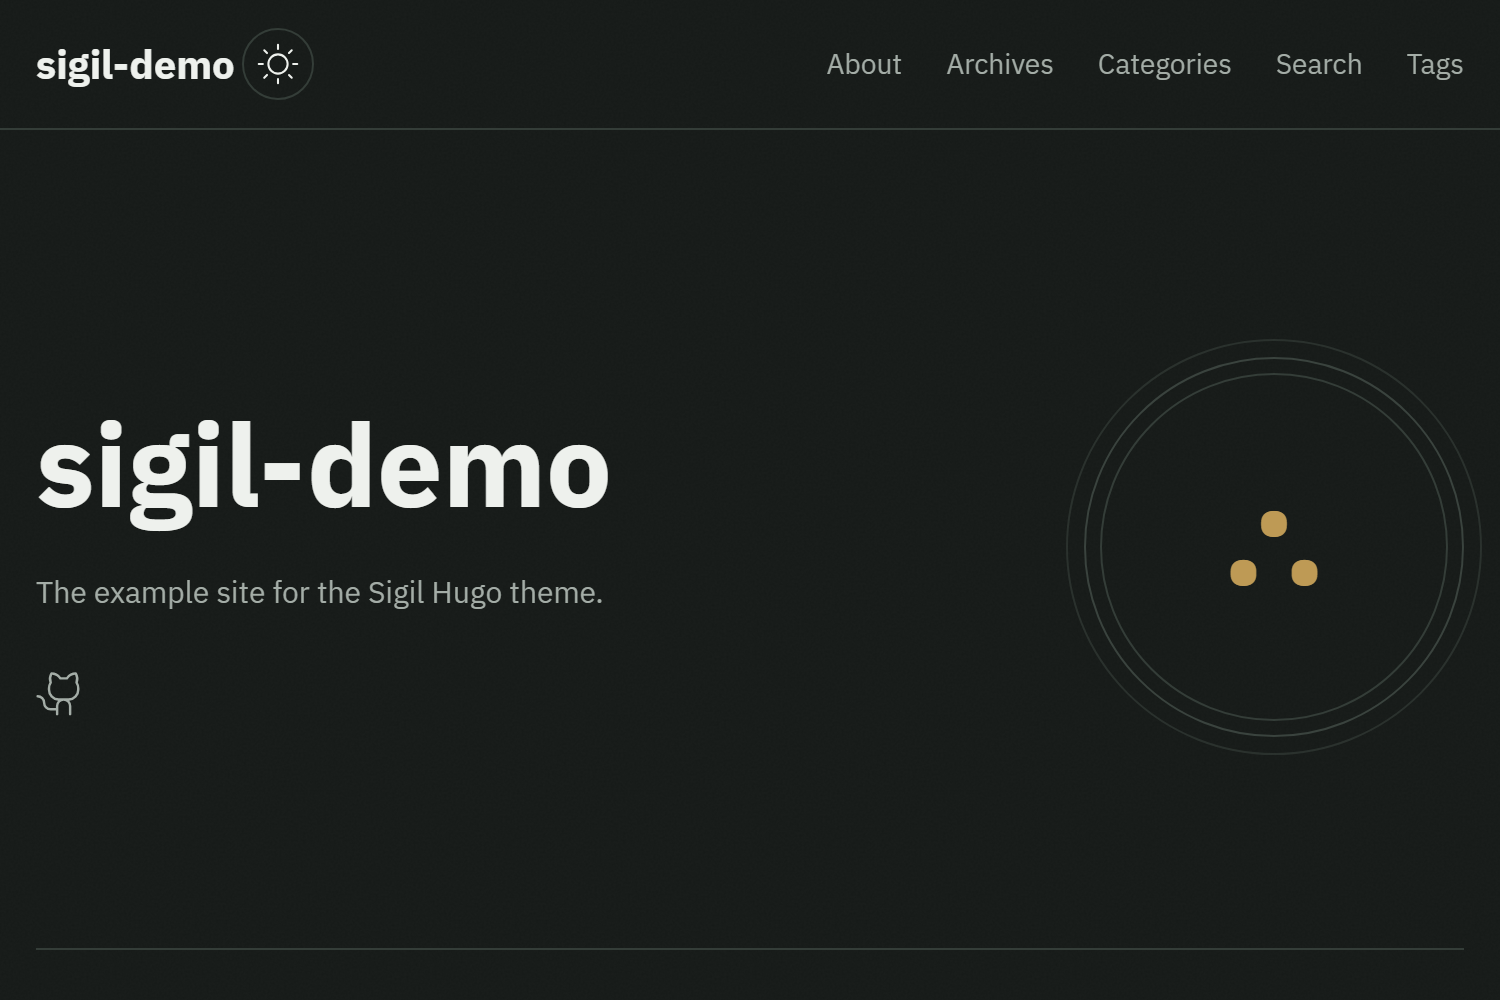
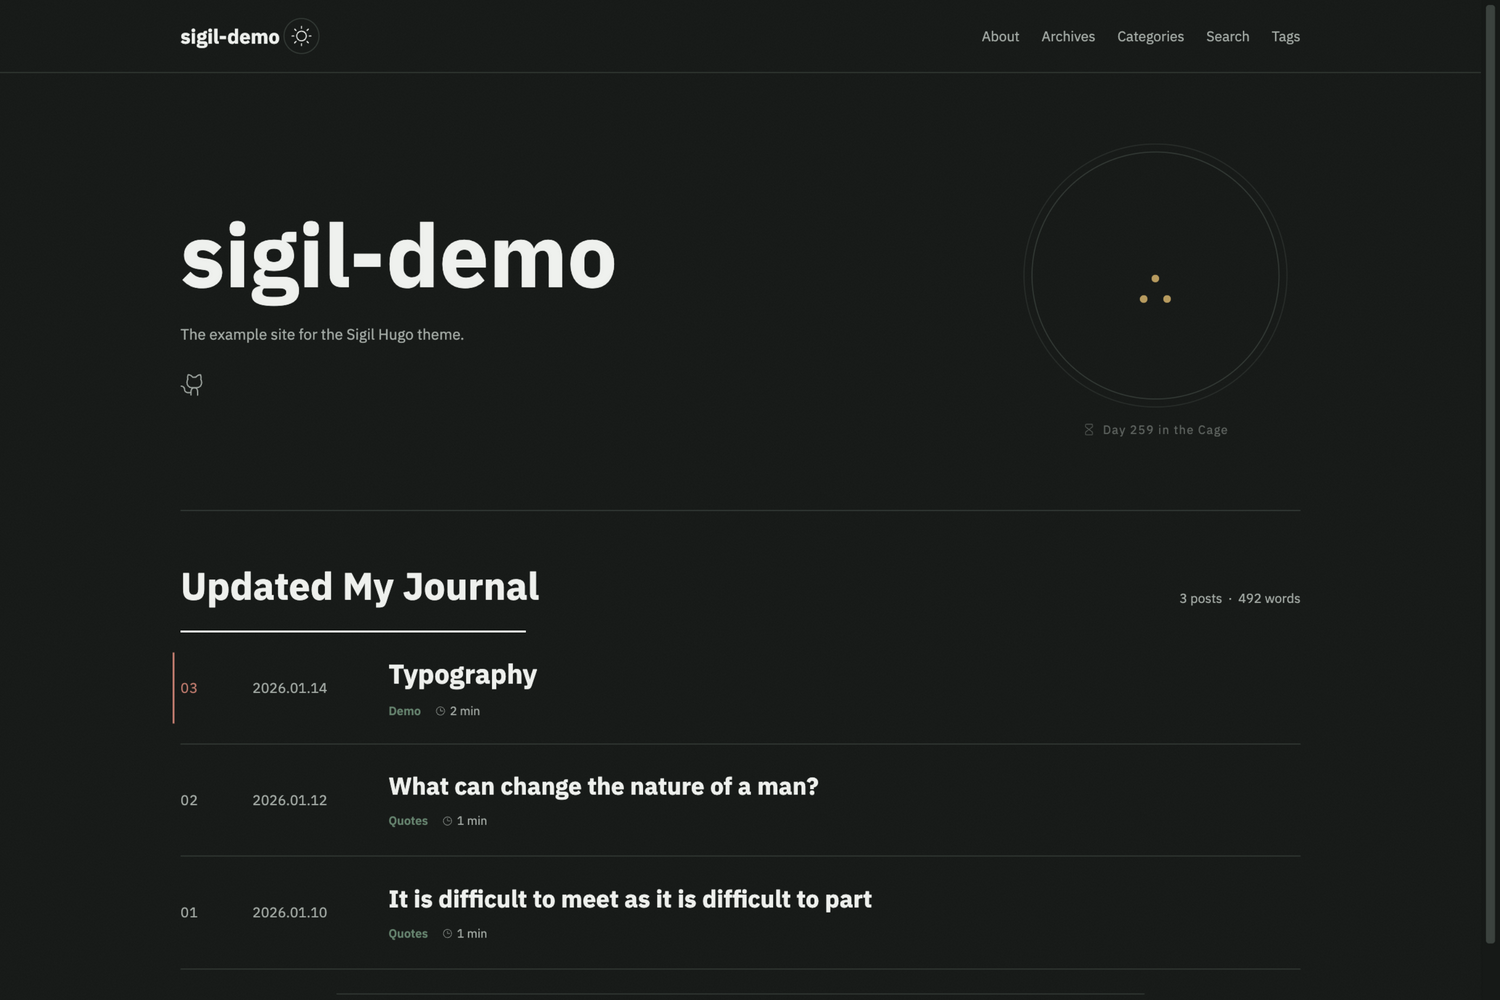
feature: 主题产品化三件套+画廊刷新
- i18n 收口:栏头/计数后缀/社交 aria/阅读前缀/分页 aria 进 i18n(en/ja/zh-CN/zh/zh-tw 真译文,缺失语言回落模板内英文 default,第三语言不再看到中文);分页方向词改用既有 prev_page/next_page(站点 i18n 覆盖生效);状态条 aria-label 改 Current status
- go.mod:Hugo Modules 用户可直接 hugo mod get
- 打印样式 print.css:藏导航/进度/分页,边注内联回段落(:has 缺失时安全回退脚注),正文黑字白底
- gallery: 重出 1500×1000 封面与 900×600 缩略图(沙漏 Day N、元信息小图标、编号列表)

diff --git a/layouts/index.html b/layouts/index.html
@@ -22,15 +22,8 @@
 {{- if and site.Params.sgDaysInCage (gt (len $pages) 0) }}
   {{- $cageDays = div (sub now.Unix (index ($pages.ByDate) 0).Date.Unix) 86400 }}
 {{- end }}
-{{- $socialLabel := "社交链接" -}}
-{{- $readPrefix := "阅读：" -}}
-{{- if eq site.Language.Lang "en" -}}
-  {{- $socialLabel = "Social links" -}}
-  {{- $readPrefix = "Read: " -}}
-{{- else if eq site.Language.Lang "ja" -}}
-  {{- $socialLabel = "ソーシャルリンク" -}}
-  {{- $readPrefix = "読む: " -}}
-{{- end -}}
+{{- $socialLabel := i18n "socialLinks" | default "Social links" -}}
+{{- $readPrefix := i18n "readPrefix" | default "Read: " -}}
 
 <div class="sg-home">
   {{- if eq $paginator.PageNumber 1 }}
@@ -60,12 +53,12 @@
         {{- end }}
       </div>
       {{- if or site.Params.sgReading site.Params.sgPlaying $sgMotto site.Params.sgDaysInCage }}
-      <figcaption class="sg-now" data-rotate="true" aria-label="Current reading and playing" aria-live="polite">
+      <figcaption class="sg-now" data-rotate="true" aria-label="Current status" aria-live="polite">
         {{- with site.Params.sgReading }}
-        <span class="sg-now__item sg-now__item--reading">{{ partial "sg-icon.html" (dict "name" "book-open" "size" 14) }}<span>Reading: {{ . }}</span></span>
+        <span class="sg-now__item sg-now__item--reading">{{ partial "sg-icon.html" (dict "name" "book-open" "size" 14) }}<span>{{ i18n "sgNowReading" | default "Reading:" }} {{ . }}</span></span>
         {{- end }}
         {{- with site.Params.sgPlaying }}
-        <span class="sg-now__item sg-now__item--playing">{{ partial "sg-icon.html" (dict "name" "game-controller" "size" 14) }}<span>Playing: {{ . }}</span></span>
+        <span class="sg-now__item sg-now__item--playing">{{ partial "sg-icon.html" (dict "name" "game-controller" "size" 14) }}<span>{{ i18n "sgNowPlaying" | default "Playing:" }} {{ . }}</span></span>
         {{- end }}
         {{- with $sgMotto }}
         <span class="sg-now__item sg-now__item--motto"><span class="sg-now__glyph" aria-hidden="true">∴</span><span>{{ . }}</span></span>
@@ -116,14 +109,14 @@
     {{- end }}
     <header class="sg-section-head">
       <div>
-        <h2 id="recent-writing">{{ if eq site.Language.Lang "en" }}Updated My Journal{{ else if eq site.Language.Lang "ja" }}最近の更新{{ else }}最近更新{{ end }}{{ if ne site.Language.Lang "en" }}<span class="sg-section-head__en">Updated My Journal</span>{{ end }}</h2>
+        <h2 id="recent-writing">{{ i18n "recentWriting" | default "Updated My Journal" }}{{ if or (eq site.Language.Lang "ja") (strings.HasPrefix site.Language.Lang "zh") }}<span class="sg-section-head__en">Updated My Journal</span>{{ end }}</h2>
         {{- if and site.Params.ShowContentLanguageNote (ne site.Language.Lang hugo.Sites.Default.Language.Lang) }}
         {{- with i18n "posts_language_note" }}
         <p class="sg-lang-note">{{ . }}</p>
         {{- end }}
         {{- end }}
       </div>
-      <p class="sg-section-head__count">{{ len $pages }}{{ if eq site.Language.Lang "en" }} posts{{ else if eq site.Language.Lang "ja" }} 編{{ else }} 篇文章{{ end }}{{ with $wordsLabel }}<span class="sg-section-head__words">{{ . }}</span>{{ end }}</p>
+      <p class="sg-section-head__count">{{ len $pages }}{{ i18n "postsSuffix" | default " posts" }}{{ with $wordsLabel }}<span class="sg-section-head__words">{{ . }}</span>{{ end }}</p>
     </header>
 
     <div class="sg-feed">
@@ -154,11 +147,11 @@
 
   {{- if gt $paginator.TotalPages 1 }}
   {{- /* 方向词一次算好,文字与 aria-label 共用:窄屏下 __word 被 CSS 隐藏,
-         没有标签的话链接在移动端是无名的(Lighthouse link-name 实测) */ -}}
-  {{- $prevWord := "上一页" }}{{ $nextWord := "下一页" }}
-  {{- if eq site.Language.Lang "en" }}{{ $prevWord = "Prev" }}{{ $nextWord = "Next" }}
-  {{- else if eq site.Language.Lang "ja" }}{{ $prevWord = "前へ" }}{{ $nextWord = "次へ" }}{{ end }}
-  <nav class="sg-pagination" aria-label="{{ if eq site.Language.Lang "en" }}Pagination{{ else if eq site.Language.Lang "ja" }}ページ送り{{ else }}文章分页{{ end }}">
+         没有标签的话链接在移动端是无名的(Lighthouse link-name 实测)。
+         走 i18n(站点 i18n 可覆盖),缺失语言回落 Prev/Next */ -}}
+  {{- $prevWord := i18n "prev_page" | default "Prev" -}}
+  {{- $nextWord := i18n "next_page" | default "Next" -}}
+  <nav class="sg-pagination" aria-label="{{ i18n "paginationAria" | default "Pagination" }}">
     <span class="sg-pagination__side">
       {{- if $paginator.HasPrev }}
       <a href="{{ $paginator.Prev.URL }}" aria-label="{{ $prevWord }}"><span aria-hidden="true">←</span> <span class="sg-pagination__word">{{ $prevWord }}</span></a>

diff --git a/assets/css/common/print.css b/assets/css/common/print.css
@@ -1,0 +1,49 @@
+/* ===== 打印:给「把长文打出来读」的人 =====
+   仅 @media print 生效,屏幕零影响。藏起一切交互件,
+   正文黑字白底;边注在纸面内联回段落(浏览器支持 :has 时,
+   同时隐藏文末脚注避免重复;不支持 :has 的浏览器保留脚注,安全回退) */
+@media print {
+    .header,
+    .footer,
+    .top-link,
+    .breadcrumbs,
+    .toc,
+    .post-tags,
+    .post-nav-links,
+    .related-posts,
+    .share-icons,
+    .copy-code,
+    .sg-pagination,
+    #sg-progress {
+        display: none !important;
+    }
+
+    html,
+    body {
+        background: #fff !important;
+        color: #000 !important;
+    }
+
+    .post-content a {
+        color: inherit;
+        text-decoration: none;
+    }
+
+    .post-content .sidenote {
+        display: inline;
+        float: none;
+        margin: 0;
+        border: 0;
+        font-size: 0.85em;
+    }
+
+    .post-content:has(.sidenote) .footnotes {
+        display: none;
+    }
+
+    .post-content blockquote,
+    .post-content figure,
+    .post-content .highlight {
+        break-inside: avoid;
+    }
+}
